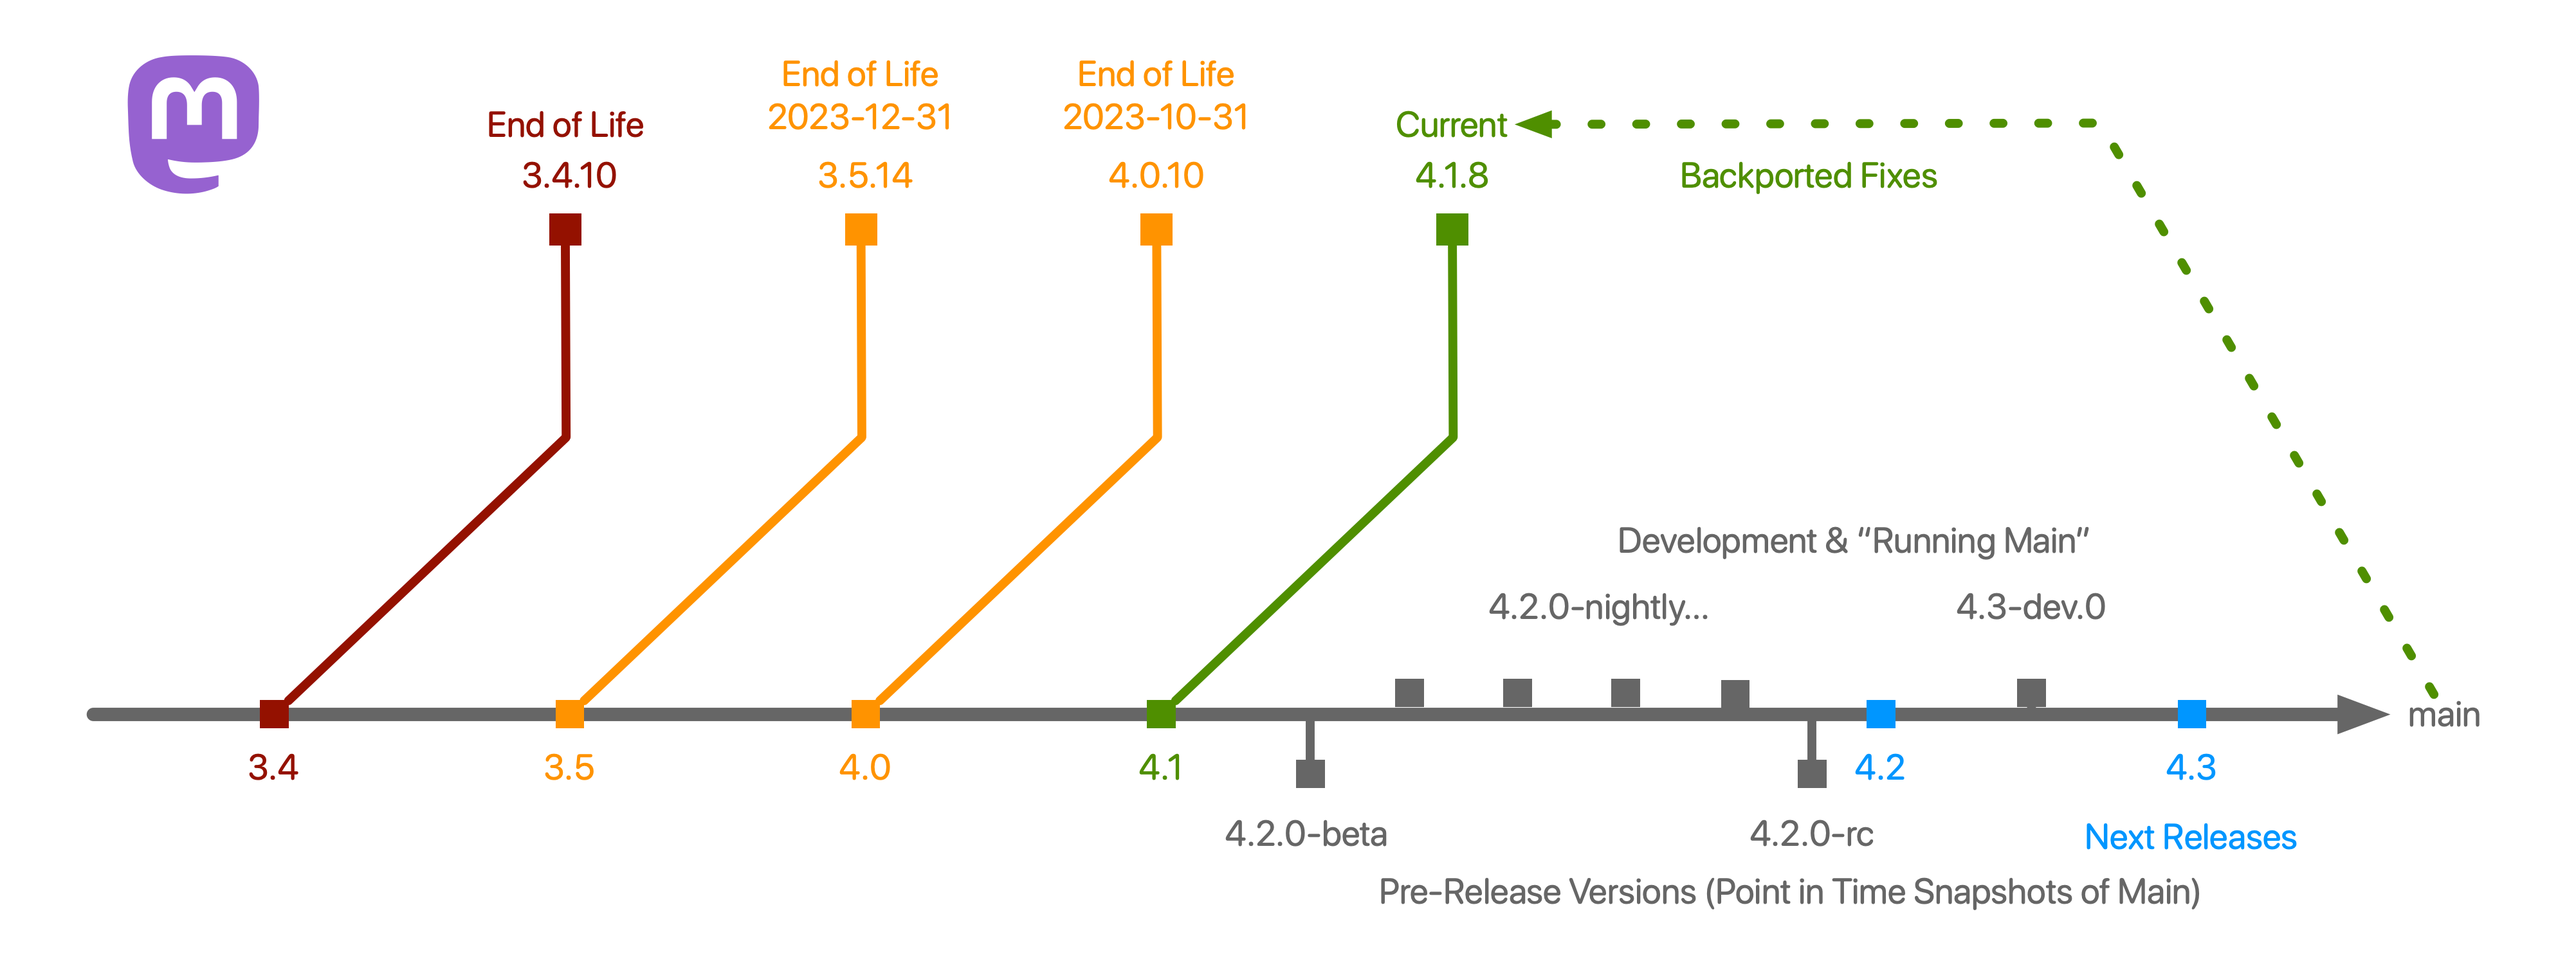
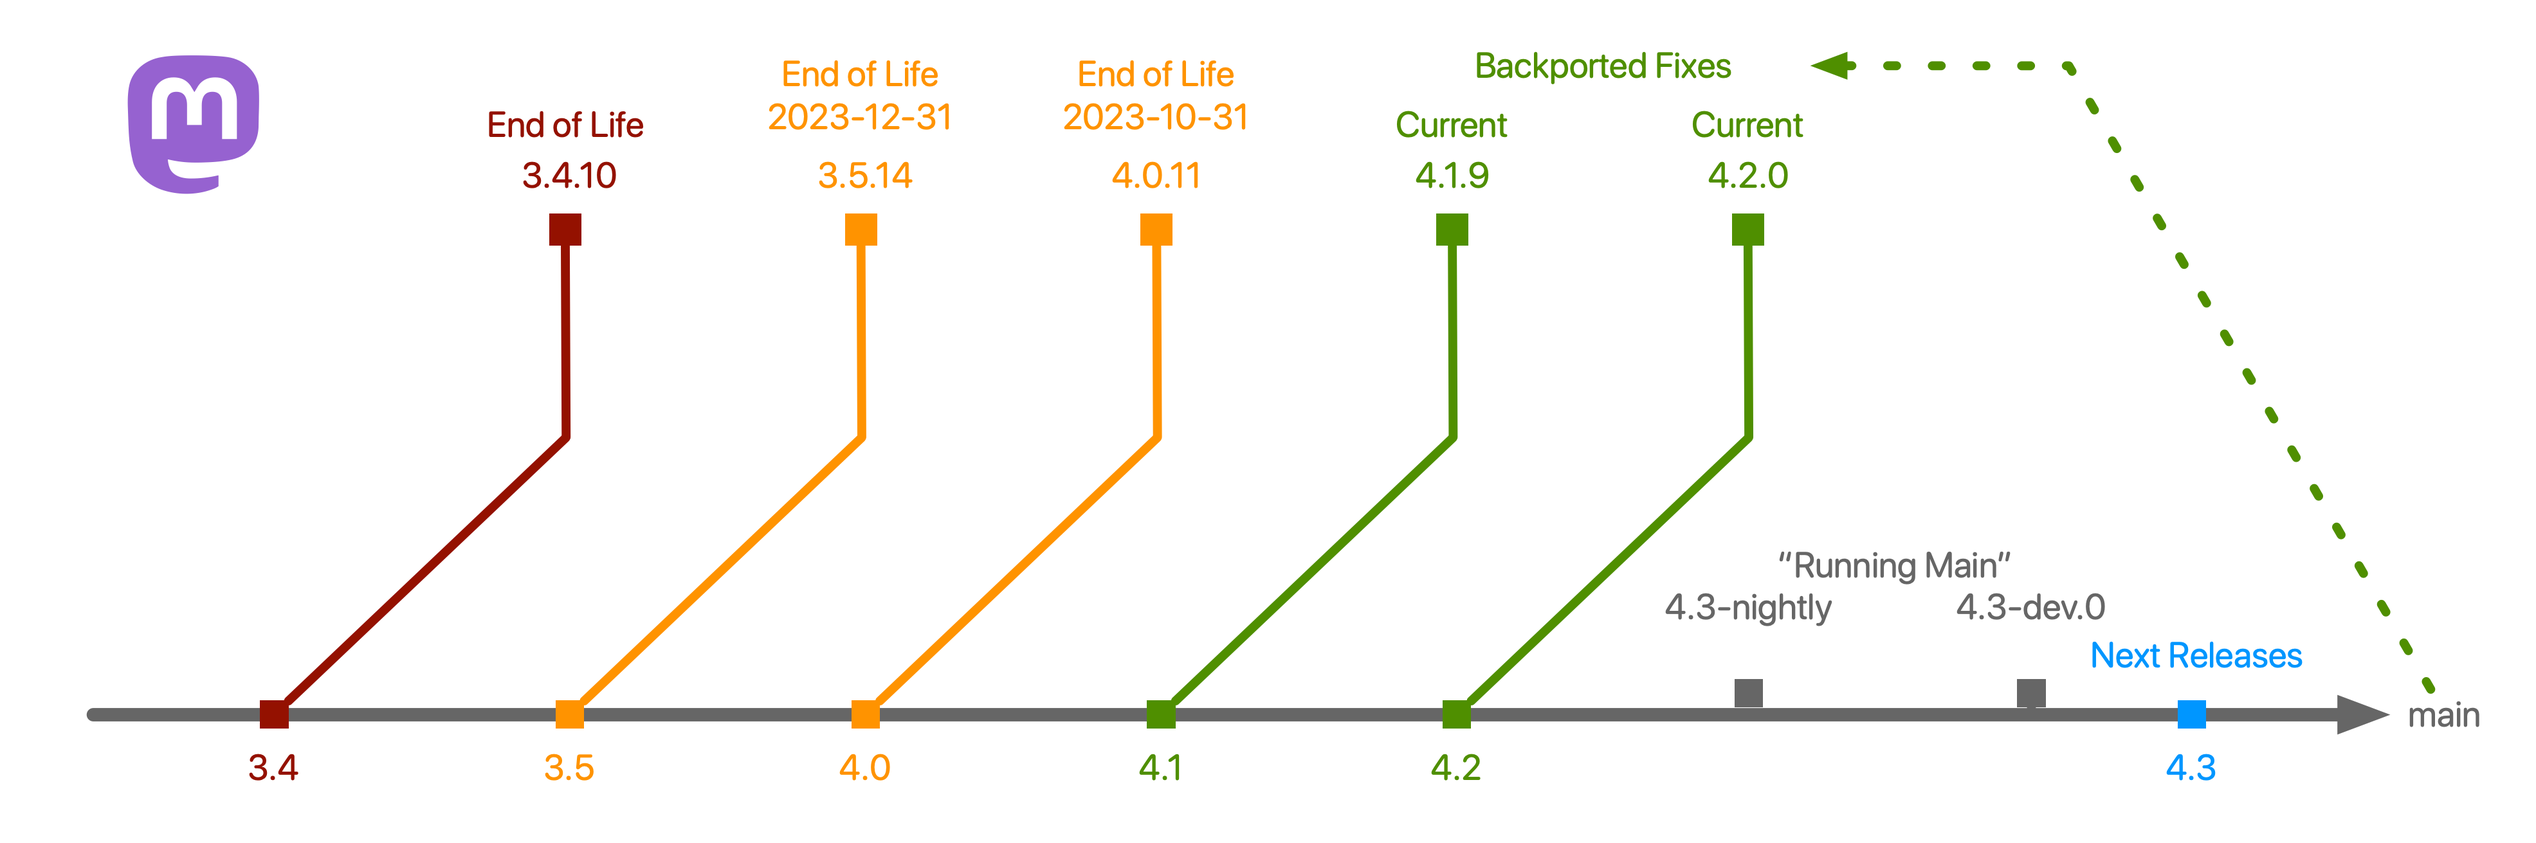
4.2 (#2)

diff --git a/docus/content/0.index.md b/docus/content/0.index.md
@@ -9,7 +9,7 @@ This document is a community maintained, best effort, matrix of recent major/min
 You should always read the release notes for your version of Mastodon, and any product dependencies, before upgrading.
 ::
 
-|                    |             **v4.3-dev**             |             **v4.2-rc2**             |              **v4.1.8**              |              **v4.0.10**             |              **v3.5.14**             |              **v3.4.10**             |
+|                    |             **v4.3-dev**             |             **v4.2.0**               |              **v4.1.9**              |              **v4.0.11**             |              **v3.5.14**             |              **v3.4.10**             |
 |--------------------|:------------------------------------:|:------------------------------------:|:------------------------------------:|:------------------------------------:|:------------------------------------:|:------------------------------------:|
 | **Ruby**           |                                      |                                      |                                      |                                      |                                      |                                      |
 | 3.2.x              |  :icon{name="twemoji:green-circle"}  |  :icon{name="twemoji:green-circle"}  |   :icon{name="twemoji:red-circle"}   |  :icon{name="twemoji:white-circle"}  |  :icon{name="twemoji:white-circle"}  |  :icon{name="twemoji:white-circle"}  |
@@ -64,15 +64,16 @@ Dependencies listed for dev, beta and rc tagged versions are based on tracking t
 
 ![Mastodon Branches](/mastodon-branches.png)
 
-### End of Life Dates
+### Mastodon End of Life Dates
 
-| **Mastodon**  | **End of Life**  |
-|---------------|------------------|
-| 4.2.x         | To Be Determined |
-| 4.1.x         | To Be Determined |
-| 4.0.x         | After 2023-10-31 |
-| 3.5.x         | After 2023-12-31 |
-| 3.4.x & prior | End of Life Now  |
+| **Mastodon**  | **End of Life**  |                                     |
+|---------------|------------------|:-----------------------------------:|
+| 4.3.x         | Not Yet Released | :icon{name="twemoji:white-circle"}  |
+| 4.2.x         | To Be Determined | :icon{name="twemoji:green-circle"}  |
+| 4.1.x         | To Be Determined | :icon{name="twemoji:green-circle"}  |
+| 4.0.x         | After 2023-10-31 | :icon{name="twemoji:yellow-circle"} |
+| 3.5.x         | After 2023-12-31 | :icon{name="twemoji:yellow-circle"} |
+| 3.4.x & prior | End of Life Now  | :icon{name="twemoji:red-circle"}    |
 
 ## Additional Resources
 
@@ -82,10 +83,28 @@ Dependencies listed for dev, beta and rc tagged versions are based on tracking t
 ### Ruby Versions
 
 Mastodon will have a file called `.ruby-version` in the source code that is the expected target version for that release.
-For example, this file has `3.0.6` for the Mastodon 4.1 branch.
+For example, this file has `3.0.6` for the Mastodon 4.1.x branch.
 
 It is best practice to run the specific target version in this file.
 Administrators who require a different version will need to manually change the contents of `.ruby-version` to match.
+
+It is not best practice to use the version of Ruby that is available in your OS platform repositories.
+You should use a tool like [rbenv](https://github.com/rbenv/rbenv) or [rvm](https://rvm.io) to install and manage the target Ruby version.
+The Mastodon instructions for installing from source use rbenv.
+
+### Node Versions
+
+It is not best practice to use the version of Ruby that is available in your OS platform default repositories.
+[NodeSource](https://github.com/nodesource/distributions) is a great option that support Debian, Ubuntu, and Redhat derivatives.
+This allows you to select a target major version and keep up to date with the latest patches in that version.
+
+### Full Text Search
+
+Administrators can use either Elasticsearch or OpenSearch as targets for full text search indexing.
+
+- [Installing Elasticsearch](https://www.elastic.co/guide/en/elasticsearch/reference/7.17/install-elasticsearch.html)
+- [Installing OpenSearch](https://opensearch.org/docs/latest/install-and-configure/install-opensearch/index/)
+- [Configuring Full Text Search](https://docs.joinmastodon.org/admin/elasticsearch/)
 
 ### ImageMagick Versions
 
@@ -93,7 +112,7 @@ All Mastodon installs should be using at least ImageMagick 6.9.7-7 to mitigate C
 
 ### Product Lifecycles
 
-For the purposes of this document, the term "End of Life" is standardized to mean when there are no further updates of any kind, and/or no support available for a released version of Mastodon or it's dependencies.
+For the purposes of this document, when applied to dependencies the term "End of Life" is standardized to mean when there are no further updates of any kind, and/or no support available for a released version of Mastodon or it's dependencies.
 
 - [Ruby](https://www.ruby-lang.org/en/downloads/branches/)
 - [Node.js](https://github.com/nodejs/release#release-schedule)
